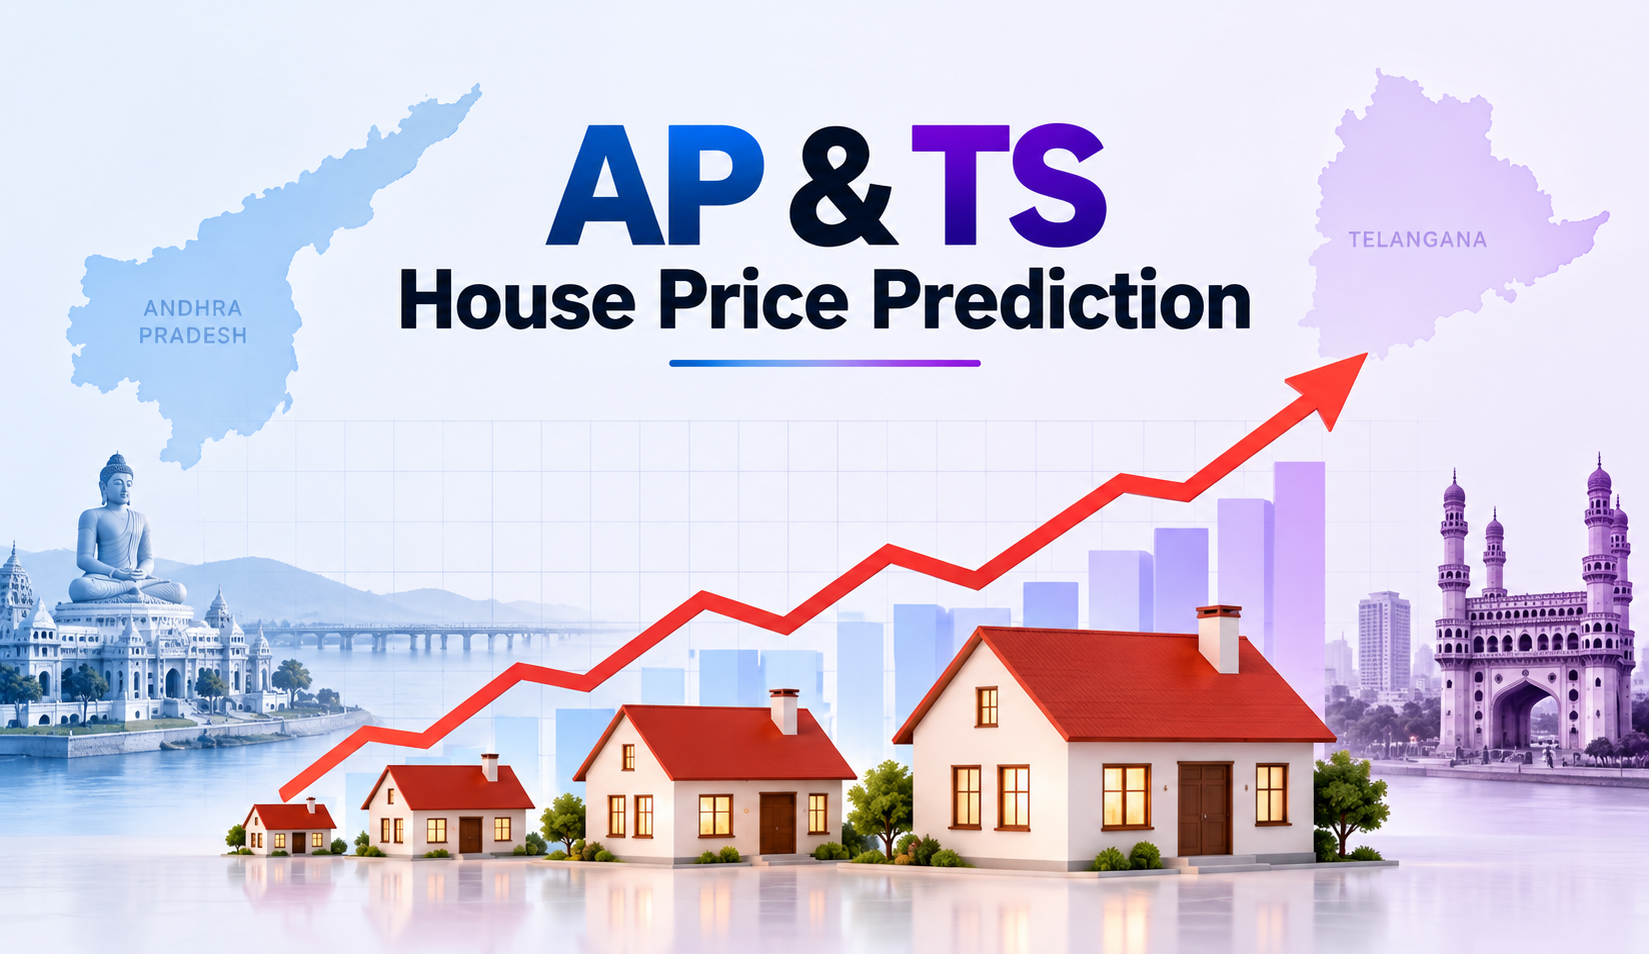
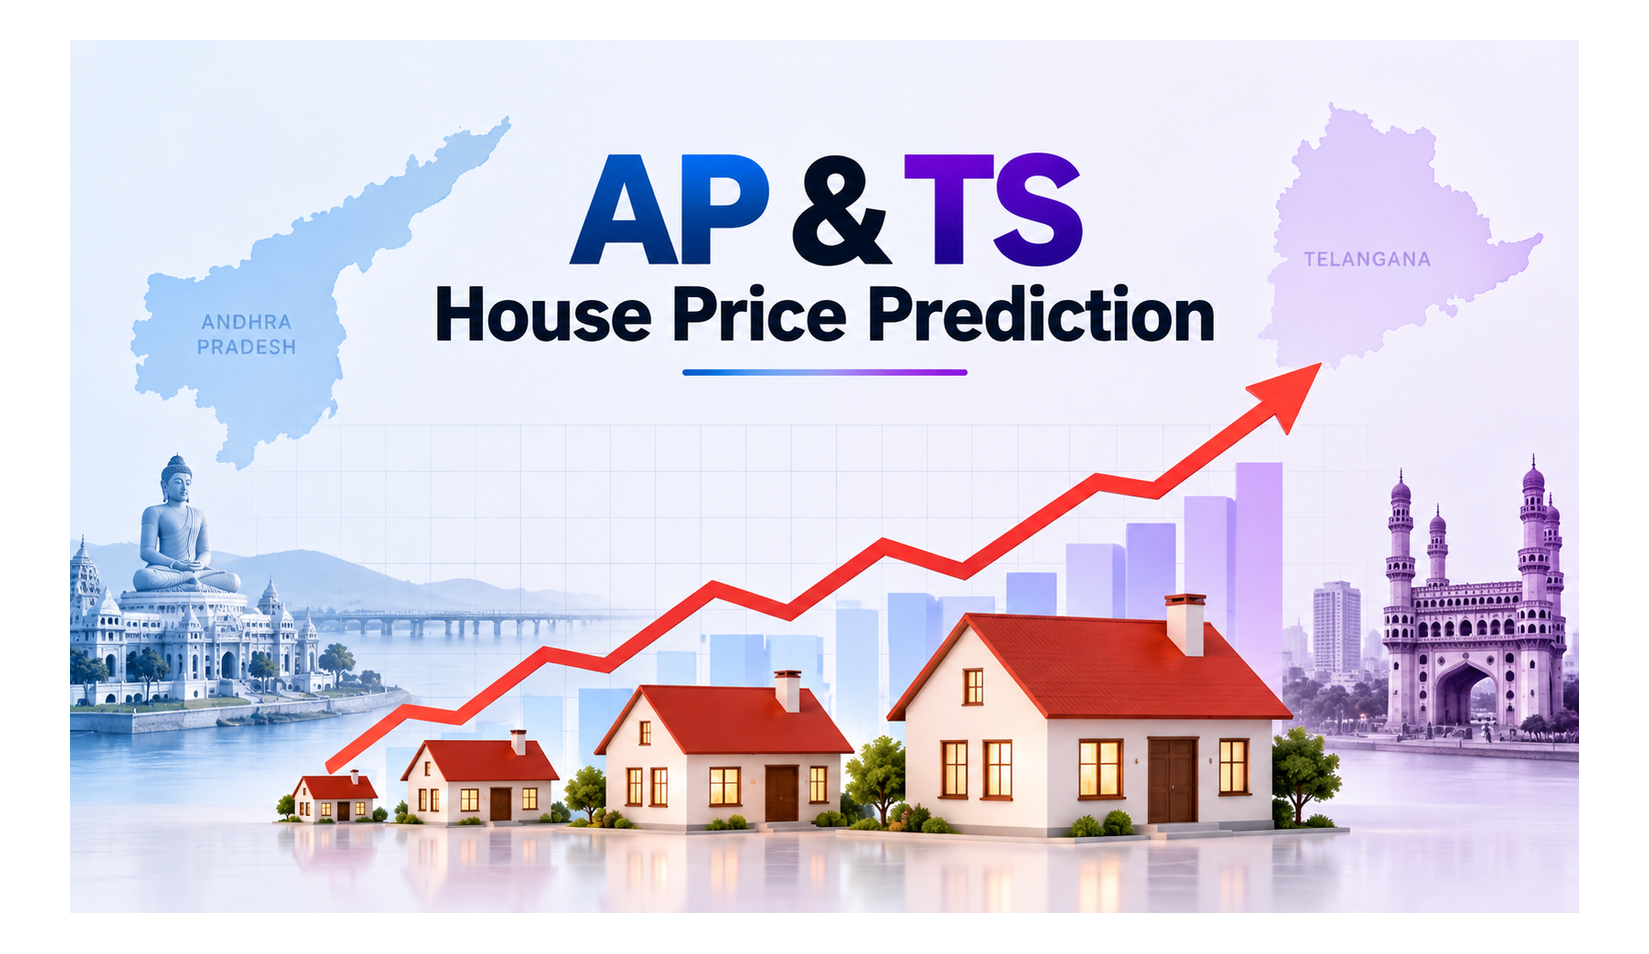
Updating Projects

diff --git a/js/script.js b/js/script.js
@@ -337,7 +337,7 @@
             </div>
           </div>
           <div class="project-image-container">
-            <img src="${p.image}" alt="${p.title}" loading="lazy" />
+            <img src="${p.image}" alt="${p.title}" loading="lazy"  />
             <div class="project-image-glow"></div>
           </div>
         </div>`;

diff --git a/css/style.css b/css/style.css
@@ -1163,7 +1163,7 @@ button {
 }
 
 .project-image-container img {
-  width: 100%;
+  width: 105%;
   height: 100%;
   object-fit: cover;
   transition: transform 0.6s cubic-bezier(0.25, 0.46, 0.45, 0.94);
